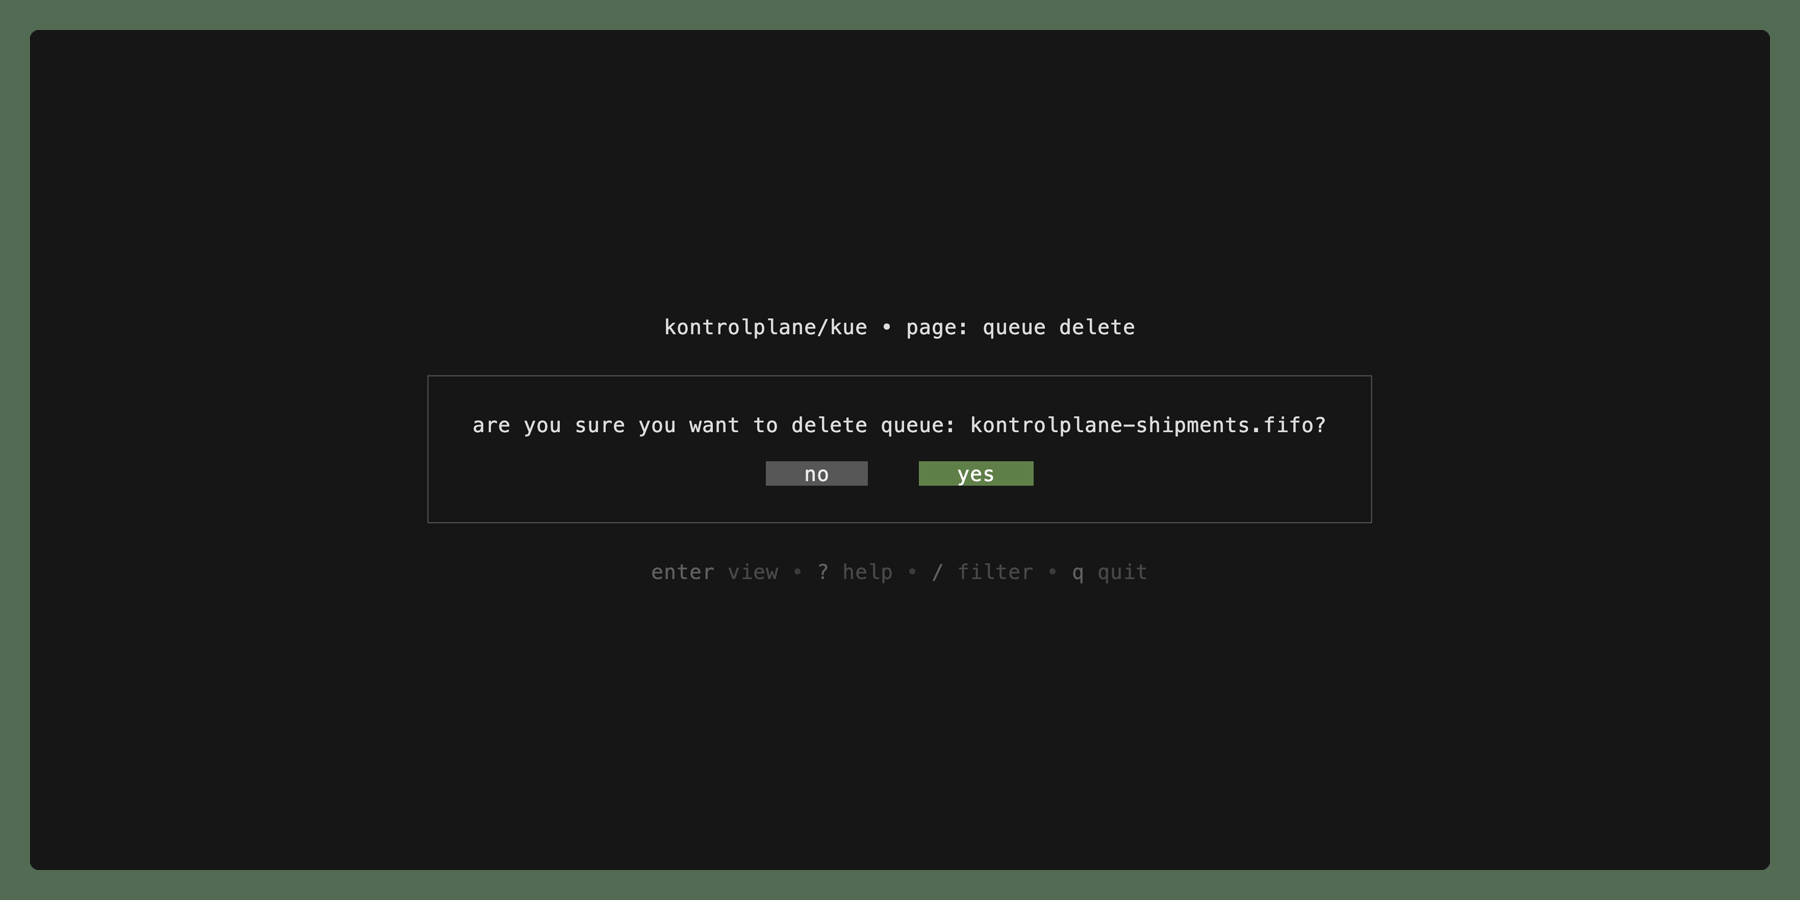
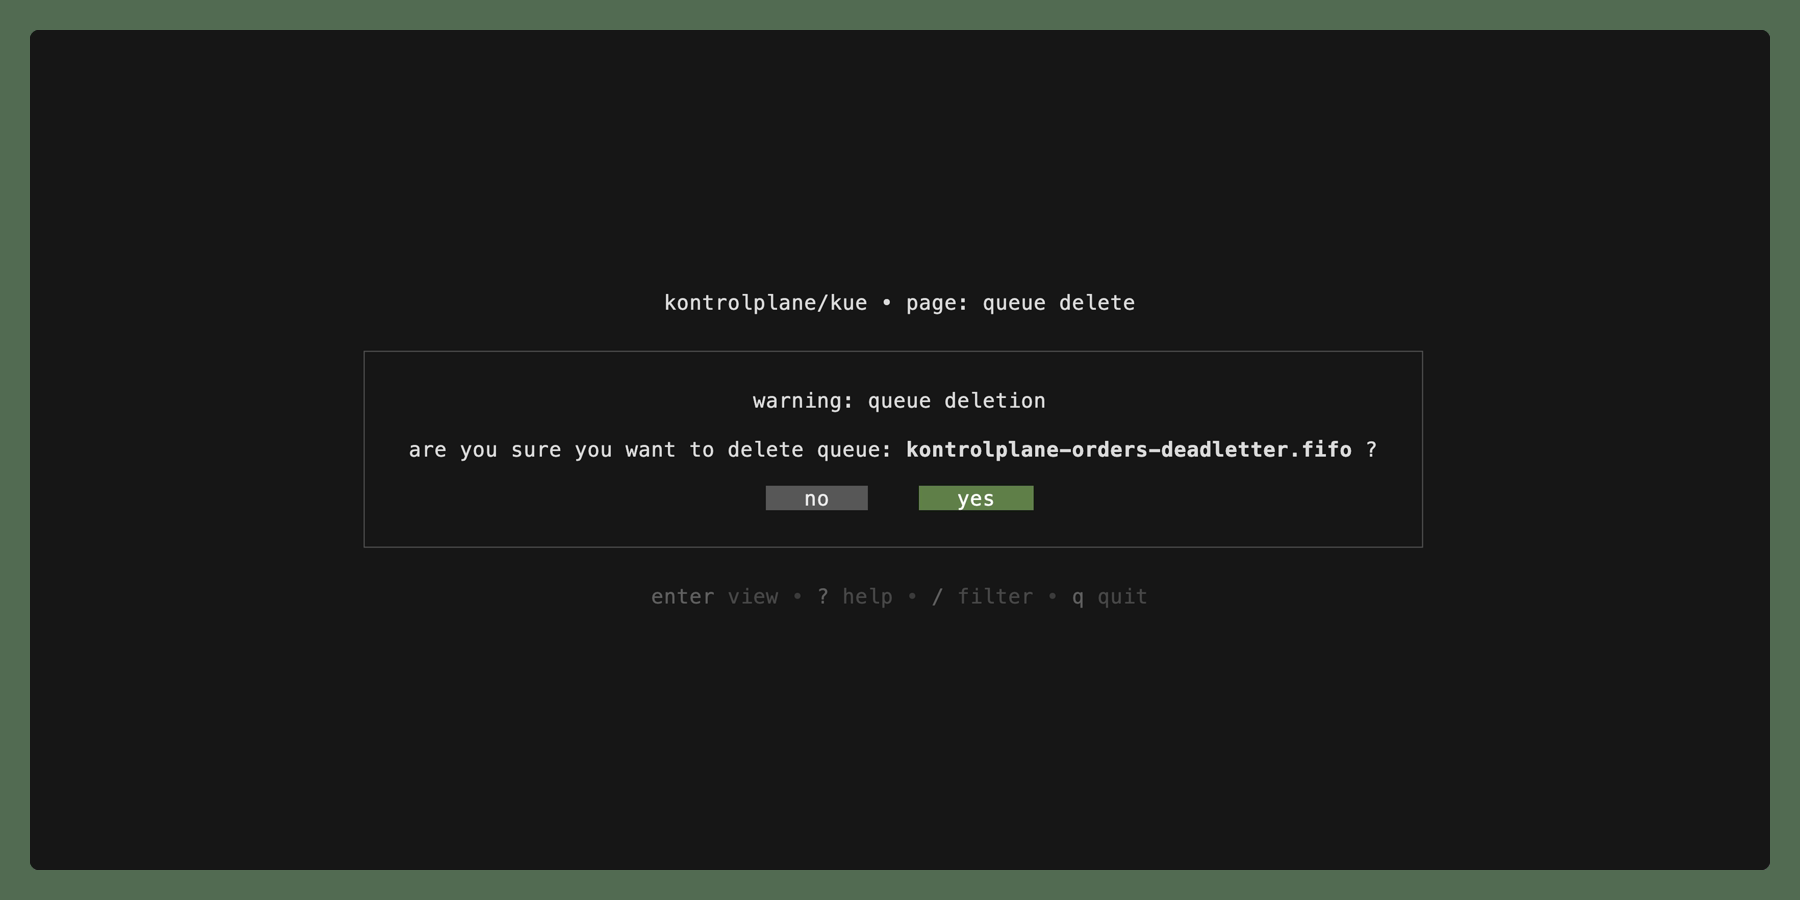
feat: update queue deletion view with improved styling and warning message

diff --git a/pkg/tui/queue_delete.go b/pkg/tui/queue_delete.go
@@ -38,9 +38,9 @@ func (m model) QueueDeleteView() string {
 		Background(lipgloss.Color("240")).
 		Padding(0, 3)
 
-	question := lipgloss.NewStyle().
-		Bold(false).
-		Render("are you sure you want to delete queue: " + m.state.queueDelete.queue.Name + "?")
+	queueName := lipgloss.NewStyle().
+		Bold(true).
+		Render(m.state.queueDelete.queue.Name)
 
 	confirm := "yes"
 	abort := "no"
@@ -62,7 +62,9 @@ func (m model) QueueDeleteView() string {
 
 	d := lipgloss.JoinVertical(
 		lipgloss.Center,
-		question,
+		"warning: queue deletion",
+		"",
+		"are you sure you want to delete queue: "+queueName+" ?",
 		"",
 		buttons,
 	)
